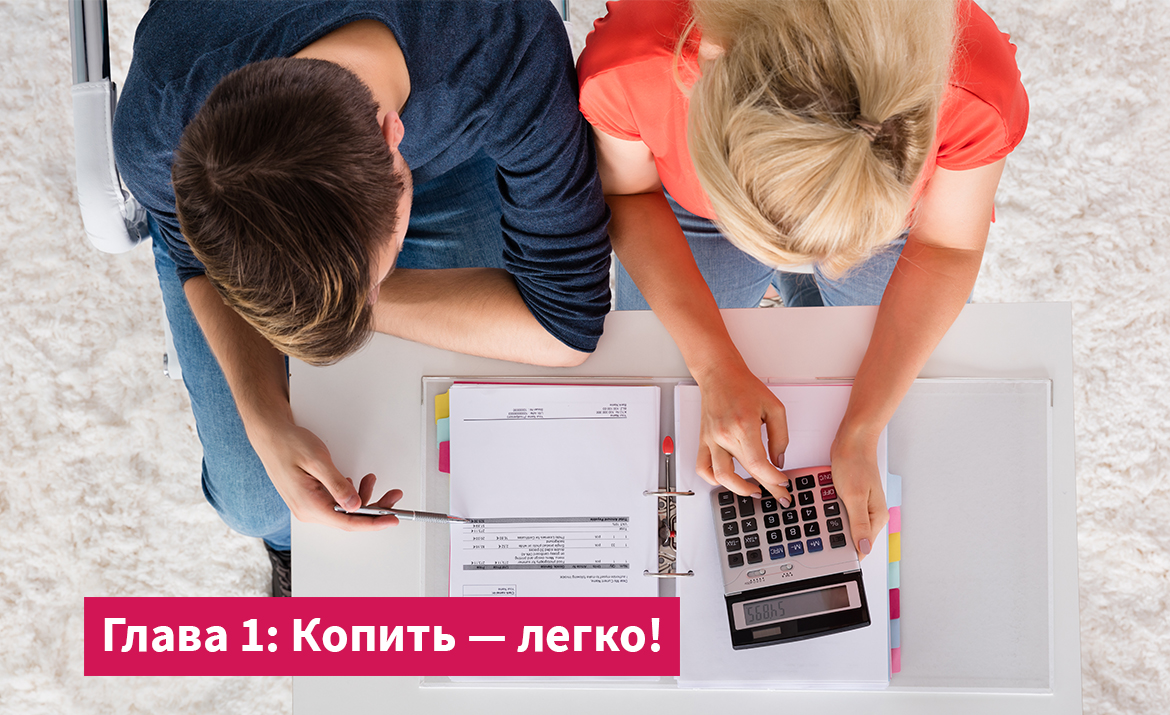
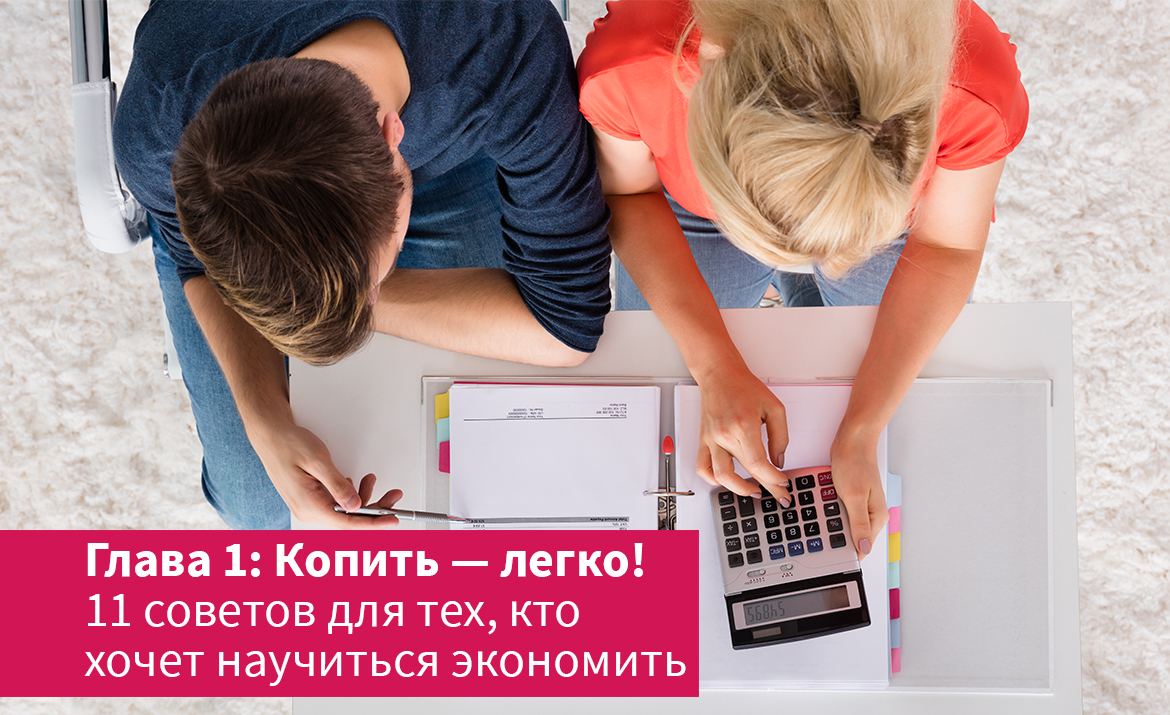
Changes

Changed region(s): [[0.0, 0.7385, 0.6154, 0.9846]]

diff --git a/index_internet.html b/index_internet.html
@@ -11,7 +11,7 @@
   <link rel="stylesheet" href="https://maxcdn.bootstrapcdn.com/bootstrap/3.3.7/css/bootstrap.min.css" integrity="sha384-BVYiiSIFeK1dGmJRAkycuHAHRg32OmUcww7on3RYdg4Va+PmSTsz/K68vbdEjh4u" crossorigin="anonymous">
   <script src="https://maxcdn.bootstrapcdn.com/bootstrap/3.3.7/js/bootstrap.min.js" integrity="sha384-Tc5IQib027qvyjSMfHjOMaLkfuWVxZxUPnCJA7l2mCWNIpG9mGCD8wGNIcPD7Txa" crossorigin="anonymous"></script>
   <script src="https://ajax.googleapis.com/ajax/libs/jquery/1.12.4/jquery.min.js"></script>
-  <style>header1,img{max-width:100%}img{height:auto}img.icons{margin:35px 0}.no-gutters{padding-left:0!important;padding-right:0!important}a{text-decoration: none}a.social{text-decoration: none;color: white}h2{font-family:'Source Sans Pro';color:#060606;font-size:50px;font-weight:700;line-height:50px}h3,p{font-family:'Source Sans Pro';font-weight:400}h3,p,p.right-spoiler,p.spoiler{color:#060606;line-height:25px;text-align:left}h3{font-size:30px;text-indent:80px}p{font-size:20px;text-indent:15.01px}p.right-spoiler,p.spoiler{font-size:18px; padding: 15px}p.right-spoiler{background:url(http://i.imgur.com/fHPtLL0.png) no-repeat #edfafc;background-position-x:10px;background-position-y:10px;margin-top:50px;padding-top:60px!important;padding:30px;font-size:16px;line-height:1.4}.spoiler-title{cursor:pointer;text-decoration:underline}p.spoiler-title{font-weight:700}.spoiler-body{display:none;background:#edfafc}.right-fact{padding-top:50px}header1{margin:0 auto}.first-chapter{margin-top:20px}.first-num{background:url(http://i.imgur.com/EjaL2N4.png) no-repeat;background-size:auto}.second-num{background:url(http://i.imgur.com/Y56rT36.png) no-repeat;background-size:auto}.third-num{background:url(http://i.imgur.com/G4n81Zx.png) no-repeat;background-size:auto}.fourth-num{background:url(http://i.imgur.com/t3Nybv9.png) no-repeat;background-size:auto}.fifth-num{background:url(http://i.imgur.com/B4XkJmA.png) no-repeat;background-size:auto}.sixth-num{background:url(http://i.imgur.com/rRyV60x.png) no-repeat;background-size:auto}.seventh-num{background:url(http://i.imgur.com/gguqD7J.png) no-repeat;background-size:auto}.eights-num{background:url(http://i.imgur.com/dDNbPuf.png) no-repeat;background-size:auto}.ninth-num{background:url(http://i.imgur.com/dBlJR8D.png) no-repeat;background-size:auto}.tenth-num{background:url(http://i.imgur.com/3LJQviE.png) no-repeat;background-size:auto}.eleventh-num{background:url(http://i.imgur.com/GaeX0VA.png) no-repeat;background-size:auto}.first-blue{background:url(http://i.imgur.com/bysIYS2.png) no-repeat;background-size:auto}.second-blue{background:url(http://i.imgur.com/q6TsTEu.png) no-repeat;background-size:auto}.third-blue{background:url(http://i.imgur.com/LyfVyoZ.png) no-repeat;background-size:auto}.fourth-blue{background:url(http://i.imgur.com/OlV8fvg.png) no-repeat;background-size:auto}.fifth-blue{background:url(http://i.imgur.com/LGByifR.png) no-repeat;background-size:auto}.sixth-blue{background:url(http://i.imgur.com/VUFcD17.png) no-repeat;background-size:auto}.second-chapter{margin-top:50px}#citata1{margin-bottom:-60px;margin-top:25px}#citata2,#citata3{margin:25px 0}img.arrow{width:10%;padding-top:5px;padding-left:10px}.text-padding{padding-top:65px}.text-padding2{padding-top:25px}p.list{text-indent:15px}.fa-check{color:#d21455}footer{height: 50px; width: 100%; background-color: #d11255;}@media screen and (max-width:576px){h3,p{text-indent:0}h3{font-size: 22px;}p.footer{padding-left: 0 !important}p.social{padding-left: 68%}h2{font-size: 32px;line-height: 30px;}p,p.spoiler{font-size:1.2em}.right-fact{padding-top:20px}.right-fact p.right-spoiler{margin-top:0!important}}</style>
+  <style>header1,img{max-width:100%}img{height:auto}img.icons{margin:35px 0}.no-gutters{padding-left:0!important;padding-right:0!important}a{text-decoration: none}a.social{text-decoration: none;color: white}h2{font-family:'Source Sans Pro';color:#060606;font-size:50px;font-weight:700;line-height:50px}h3,p{font-family:'Source Sans Pro';font-weight:400}h3,p,p.right-spoiler,p.spoiler{color:#060606;line-height:25px;text-align:left}h3{font-size:30px;text-indent:80px}p{font-size:20px;text-indent:15.01px}p.right-spoiler,p.spoiler{font-size:18px; padding: 15px}p.right-spoiler{background:url(http://i.imgur.com/fHPtLL0.png) no-repeat #edfafc;background-position-x:10px;background-position-y:10px;margin-top:50px;padding-top:60px!important;padding:30px;font-size:16px;line-height:1.4}.spoiler-title{cursor:pointer;text-decoration:underline}p.spoiler-title{font-weight:700}.spoiler-body{display:none;background:#edfafc}.right-fact{padding-top:50px}header1{margin:0 auto}.first-chapter{margin-top:20px}.first-num{background:url(http://i.imgur.com/EjaL2N4.png) no-repeat;background-size:auto}.second-num{background:url(http://i.imgur.com/Y56rT36.png) no-repeat;background-size:auto}.third-num{background:url(http://i.imgur.com/G4n81Zx.png) no-repeat;background-size:auto}.fourth-num{background:url(http://i.imgur.com/t3Nybv9.png) no-repeat;background-size:auto}.fifth-num{background:url(http://i.imgur.com/B4XkJmA.png) no-repeat;background-size:auto}.sixth-num{background:url(http://i.imgur.com/rRyV60x.png) no-repeat;background-size:auto}.seventh-num{background:url(http://i.imgur.com/gguqD7J.png) no-repeat;background-size:auto}.eights-num{background:url(http://i.imgur.com/dDNbPuf.png) no-repeat;background-size:auto}.ninth-num{background:url(http://i.imgur.com/dBlJR8D.png) no-repeat;background-size:auto}.tenth-num{background:url(http://i.imgur.com/3LJQviE.png) no-repeat;background-size:auto}.eleventh-num{background:url(http://i.imgur.com/GaeX0VA.png) no-repeat;background-size:auto}.first-blue{background:url(http://i.imgur.com/bysIYS2.png) no-repeat;background-size:auto}.second-blue{background:url(http://i.imgur.com/q6TsTEu.png) no-repeat;background-size:auto}.third-blue{background:url(http://i.imgur.com/LyfVyoZ.png) no-repeat;background-size:auto}.fourth-blue{background:url(http://i.imgur.com/OlV8fvg.png) no-repeat;background-size:auto}.fifth-blue{background:url(http://i.imgur.com/LGByifR.png) no-repeat;background-size:auto}.sixth-blue{background:url(http://i.imgur.com/VUFcD17.png) no-repeat;background-size:auto}.first-green{background: url(http://i.imgur.com/amae760.png) no-repeat; background-size: auto;}.second-green{background: url(http://i.imgur.com/qjD3D1p.png) no-repeat; background-size: auto;}.third-green{background: url(http://i.imgur.com/hNWOV3Z.png) no-repeat; background-size: auto;}.fourth-green{background: url(http://i.imgur.com/whjhyQX.png) no-repeat; background-size: auto;}.fifth-green{background: url(http://i.imgur.com/NJhR7Yj.png) no-repeat; background-size: auto;}.second-chapter{margin-top:50px}#citata1{margin-bottom:-60px;margin-top:25px}#citata2,#citata3{margin:25px 0}img.arrow{width:10%;padding-top:5px;padding-left:10px}.text-padding{padding-top:65px; padding-left: 80px; text-indent: 0; line-height: 30px;}.text-padding2{padding-top:25px}p.list{text-indent:15px}.fa-check{color:#d21455}footer{height: 50px; width: 100%; background-color: #d11255;}@media screen and (max-width:576px){h3,p{text-indent:0}h3{font-size: 22px;}p.footer{padding-left: 0 !important}p.social{padding-left: 68%}h2{font-size: 32px;line-height: 30px;}p,p.spoiler{font-size:1.2em}.right-fact{padding-top:20px}.right-fact p.right-spoiler{margin-top:0!important}}</style>
 </head>
 <body>
   <div class="header 1 hidden-xs">
@@ -23,12 +23,7 @@
   <div class="container">
     <div class="first-chapter">
       <div class="row">
-        <div class="col-md-12 no-gutters"><img src=http://i.imgur.com/MTD1ZFk.jpg alt=""></div>
-      </div>
-      <div class="row">
-        <div class="col-md-10 col-md-offset-1">
-          <h2>11 советов для тех, кто хочет научиться экономить</h2>
-        </div>
+        <div class="col-md-12 no-gutters"><img src=http://i.imgur.com/hkp0kw1.jpg alt=""></div>
       </div>
       <div class="row">
         <div class="col-md-8 col-md-offset-2">
@@ -229,121 +224,194 @@
         </div>
       </div>
     </div>
-    </div>
-    <div class="second-chapter">
-      <div class="container">
-        <div class="row">
-          <div class="col-md-12 no-gutters">
-            <img src=http://i.imgur.com/Rrbo5mn.jpg alt="">
-          </div>
-        </div>
-        <div class="row">
-          <div class="col-md-10 col-md-offset-1">
-            <h2>6 советов как правильно инвестировать</h2>
-          </div>
-        </div>
-        <div class="row">
-          <div class="col-md-8 col-md-offset-2">
-            <p>Отсутствие знаний правил финансовой грамотности, либо их игнорирование приводит к плачевным результатам. Об этом говорят цифры: потенциальных банкротов - граждан в стране на начало 2017 г насчитывается около 700 тысяч рублей. В отношении 30 тысяч человек возбуждены дела о банкротстве. Причина не столько в экономической ситуации, как в финансовых ошибках людей.</p>
-          </div>
-          <div class="col-md-10 col-md-offset-2 hidden-xs">
-            <div id="citata2"><img src=http://i.imgur.com/bMk7g3V.png alt=""></div>
-          </div>
-          <div class="col-md-7 col-md-offset-2">
-            <p>Что необходимо сделать, чтобы сохранить и преумножить накопленные сбережения? Разбираем основные способы инвестирования накоплений. </p>
-          </div>
-        </div>
-        <div class="row">
-          <div class="col-md-8 col-md-offset-2">
-            <div class="text-block first-blue">
-              <h3 class="text-padding">Инвестиции в банк: дебетовая карта или вклад.</h3>
-              <p>Возможностей и банков масса, все дают гарантированный доход. Есть карты с кэшбэком по отдельным категориям, есть целый портфель вкладов с возможностью снятия денег или без, на определенный промежуток времени или до востребования. Внимательно читайте условия договора, включая информацию под&nbsp*, выбирайте такие условия, которые будут соответствовать конечной цели ваших накоплений -  будь то ремонт или отпуск. Можно обратиться в банк, где консультант подберет <a href="https://neyvabank.ru/chastnym-litsam/vklady?utm_source=rbc&utm_medium=news&utm_campaign=in_rbc_discounter&crm_phrase=yapokupayu">оптимальный вариант</a>.</p>
-            </div>
-            <img src=http://i.imgur.com/lHhsTbs.jpg alt="" style="margin-top: 30px;">
-          </div>
-        </div>
-        <div class="row">
-          <div class="col-md-8 col-md-offset-2">
-            <div class="text-block second-blue">
-              <h3 class="text-padding">Инвестиции в Фондовый рынок.</h3>
-              <p>По статистике в США доля частных инвесторов на фондовых рынках составляет 60%. В России же эта цифра составляет менее 1%, а число активных инвесторов и того меньше, примерно 0,1%.</p>
-              <p>Почему в России фондовый рынок так не популярен? Во-первых, это рискованнее, чем просто дебетовый вклад в банке, вы можете вложить деньги не в тот портфель и полностью или частично их потерять.</p>
-              <p>Поэтому, чтобы разбираться в фондовом рынке, прочитать десяток книг, а лучше еще получить хорошее образование. Или найти хорошего тренера. Только авторов и преподавателей нужно проверять: смотреть, сколько они сами заработали и чего достигли.</p>
-              <p>Эксперты фондового рынка утверждают, что зарабатывать можно в среднем 15-17% годовых, используя разные портфели инвестиций. Кроме того, здесь относительно низкий порог входа— для начала вам будет достаточно 10-20 тысяч рублей.</p>
-            </div>
-          </div>
-        </div>
-        <div class="row">
-          <div class="col-md-8 col-md-offset-2">
-            <div class="text-block third-blue">
-              <h3 class="text-padding">Инвестиции в ликвидные товары.</h3>
-              <p>Всегда что- то можно выгодно купить и еще более выгодно продать.</p>
-              <p>Разберем пример с автомобилем. Покупая новый автомобиль в салоне до 1 000 000 рублей, можно сразу же потерять 30% стоимости автомобиля. Как? Вы выехали из салона, и он уже стоит не 1 000 000 рублей, а 700 000. Просто потому что он уже не новый. Соответственно, продать его вы сможете тысяч за 700 в следующем году, и потерять 300 000 рублей.</p>
-              <p>Выгоднее взять подержанный автомобиль этой же марки, например, годовалый, за 600-700 000 рублей, и через год продать его за те же деньги. Так вы не потеряете в деньгах. </p>
-              <p>Другое дело – квартира. Банки нам обещают множество вариантов ипотеки, основной посыл которых — живи сейчас, плати постепенно. Однако цена на землю и на обустроенные квартиры имеет свойство расти со временем. То есть квартиру за 2-3 миллиона рублей можно через несколько лет продать выгоднее на 15-20%. </p>
-              <img src=http://i.imgur.com/9AzfXm3.jpg alt="" style="margin-top: 30px;">
-            </div>
-          </div>
-        </div>
-        <div class="row">
-          <div class="col-md-8 col-md-offset-2">
-            <div class="text-block fourth-blue">
-              <h3 class="text-padding">Инвестиции в стартап.</h3>
-              <p>Открыть собственный или вложиться в текущий проект. Apple, Uber или Instagram тоже когда-то были стартапами, просто в них поверили.</p>
-              <p>Вложив накопленные деньги в открывающееся кафе или, например, воспользовавшись специальными сайтами, где стартапы ищут денег на запуск, можно остаться в большом выигрыше. Безусловно, это рискованно, так что вариант подойдет не для всех.</p>
-            </div>
-          </div>
-        </div>
-        <div class="row">
-          <div class="col-md-8 col-md-offset-2">
-            <div class="text-block fifth-blue">
-              <h3 class="text-padding">Инвестиции в себя.</h3>
-              <p>Лучшие инвестиции — в себя: знания, профессиональное развитие, языки, хобби и т.д. Это все в перспективе поможет вам зарабатывать гораздо больше. Как?</p>
-              <p>Правильное образование поможет вам не растеряться в любой ситуации, будь то переезд в другой город, смена работы или рождение ребенка.</p>
-              <p>Обучившись тем же навыкам финансовой грамотности, можно начать грамотно распоряжаться имеющимися деньгами. Или, выучившись, например, на дизайнера или копирайтера, у вас всегда будет план Б.</p>
-            </div>
-          </div>
-        </div>
-        <div class="row">
-          <div class="col-md-8 col-md-offset-2 hidden-xs">
-            <div class="text-block sixth-blue">
-             <h3 class="text-padding" style="margin-bottom: 0;">И напоследок - изредка все же можно купить</h3> <br> <h3 style="margin-top: -10px;">лотерейный билет, а вдруг…?</h3>
-             <p>Без хорошей доли удачи даже самое выгодное, на первый взгляд, вложение, может не принести ожидаемой пользы.
-             </p>
-             <p>Мы предложили самые простые механизмы финансовой грамотности, а что именно делать с вашими деньгами, использовать ли эти советы - решать Вам!</p>
-           </div>
-         </div>
-       </div>
-       <div class="row">
-         <div class="col-md-8 col-md-offset-2 visible-xs-block">
-           <div class="text-block sixth-blue">
-             <h3 class="text-padding" style="margin-bottom: 0;">И напоследок - изредка все же можно купить лотерейный билет, а вдруг…?</h3>
-             <p>Без хорошей доли удачи даже самое выгодное, на первый взгляд, вложение, может не принести ожидаемой пользы.
-             </p>
-             <p>Мы предложили самые простые механизмы финансовой грамотности, а что именно делать с вашими деньгами, использовать ли эти советы - решать Вам!</p>
-           </div>
-         </div>
-       </div>
-       <div class="row">
-         <div class="col-md-10 col-md-offset-2 hidden-xs">
-          <div id="citata3"><img src=http://i.imgur.com/LX8YiJ5.png alt=""></div>
-        </div>
-      </div>
-      </div>
-      </div>
-      </div>
-      <div class="container-fluid">
+  </div>
+  <div class="second-chapter">
+    <div class="container">
       <div class="row">
-      <div class="col-md-12 no-gutters">
-        <footer>
-        <p class="footer" style="color: white; padding-top: 15px; padding-left: 20%; float: left;"><a href="http://www.yapokupayu.ru/NewYou_EKB/" style="text-decoration: none; color: white">Назад к «Карте Желаний»</a></p>
-        <p class="social" style="padding-top: 15px; color: white; padding-left: 70%"><a class="social" href="https://www.instagram.com/yapokupayu.ru/"><i class="fa fa-instagram" aria-hidden="true"></i></a> <a class="social" href="https://www.facebook.com/yapokupayuru"><i class="fa fa-facebook-square" aria-hidden="true"></i></a> <a class="social" href="https://vk.com/yapokru"><i class="fa fa-vk" aria-hidden="true"></i></a> <a class="social" href="https://ok.ru/yapokru"><i class="fa fa-odnoklassniki-square" aria-hidden="true"></i></a></p>
-        </footer>
+        <div class="col-md-12 no-gutters">
+          <img src=http://i.imgur.com/afoNpeZ.jpg alt="">
+        </div>
       </div>
+      <div class="row">
+        <div class="col-md-8 col-md-offset-2">
+          <p>Отсутствие знаний правил финансовой грамотности, либо их игнорирование приводит к плачевным результатам. Об этом говорят цифры: потенциальных банкротов - граждан в стране на начало 2017 г насчитывается около 700 тысяч рублей. В отношении 30 тысяч человек возбуждены дела о банкротстве. Причина не столько в экономической ситуации, как в финансовых ошибках людей.</p>
+        </div>
+        <div class="col-md-10 col-md-offset-2 hidden-xs">
+          <div id="citata2"><img src=http://i.imgur.com/bMk7g3V.png alt=""></div>
+        </div>
+        <div class="col-md-7 col-md-offset-2">
+          <p>Что необходимо сделать, чтобы сохранить и преумножить накопленные сбережения? Разбираем основные способы инвестирования накоплений. </p>
+        </div>
       </div>
-    </div>
+      <div class="row">
+        <div class="col-md-8 col-md-offset-2">
+          <div class="text-block first-blue">
+            <h3 class="text-padding">Инвестиции в банк: дебетовая карта или вклад.</h3>
+            <p>Возможностей и банков масса, все дают гарантированный доход. Есть карты с кэшбэком по отдельным категориям, есть целый портфель вкладов с возможностью снятия денег или без, на определенный промежуток времени или до востребования. Внимательно читайте условия договора, включая информацию под&nbsp*, выбирайте такие условия, которые будут соответствовать конечной цели ваших накоплений -  будь то ремонт или отпуск. Можно обратиться в банк, где консультант подберет <a href="https://neyvabank.ru/chastnym-litsam/vklady?utm_source=rbc&utm_medium=news&utm_campaign=in_rbc_discounter&crm_phrase=yapokupayu">оптимальный вариант</a>.</p>
+          </div>
+          <img src=http://i.imgur.com/lHhsTbs.jpg alt="" style="margin-top: 30px;">
+        </div>
+      </div>
+      <div class="row">
+        <div class="col-md-8 col-md-offset-2">
+          <div class="text-block second-blue">
+            <h3 class="text-padding">Инвестиции в Фондовый рынок.</h3>
+            <p>По статистике в США доля частных инвесторов на фондовых рынках составляет 60%. В России же эта цифра составляет менее 1%, а число активных инвесторов и того меньше, примерно 0,1%.</p>
+            <p>Почему в России фондовый рынок так не популярен? Во-первых, это рискованнее, чем просто дебетовый вклад в банке, вы можете вложить деньги не в тот портфель и полностью или частично их потерять.</p>
+            <p>Поэтому, чтобы разбираться в фондовом рынке, прочитать десяток книг, а лучше еще получить хорошее образование. Или найти хорошего тренера. Только авторов и преподавателей нужно проверять: смотреть, сколько они сами заработали и чего достигли.</p>
+            <p>Эксперты фондового рынка утверждают, что зарабатывать можно в среднем 15-17% годовых, используя разные портфели инвестиций. Кроме того, здесь относительно низкий порог входа— для начала вам будет достаточно 10-20 тысяч рублей.</p>
+          </div>
+        </div>
+      </div>
+      <div class="row">
+        <div class="col-md-8 col-md-offset-2">
+          <div class="text-block third-blue">
+            <h3 class="text-padding">Инвестиции в ликвидные товары.</h3>
+            <p>Всегда что- то можно выгодно купить и еще более выгодно продать.</p>
+            <p>Разберем пример с автомобилем. Покупая новый автомобиль в салоне до 1 000 000 рублей, можно сразу же потерять 30% стоимости автомобиля. Как? Вы выехали из салона, и он уже стоит не 1 000 000 рублей, а 700 000. Просто потому что он уже не новый. Соответственно, продать его вы сможете тысяч за 700 в следующем году, и потерять 300 000 рублей.</p>
+            <p>Выгоднее взять подержанный автомобиль этой же марки, например, годовалый, за 600-700 000 рублей, и через год продать его за те же деньги. Так вы не потеряете в деньгах. </p>
+            <p>Другое дело – квартира. Банки нам обещают множество вариантов ипотеки, основной посыл которых — живи сейчас, плати постепенно. Однако цена на землю и на обустроенные квартиры имеет свойство расти со временем. То есть квартиру за 2-3 миллиона рублей можно через несколько лет продать выгоднее на 15-20%. </p>
+            <img src=http://i.imgur.com/9AzfXm3.jpg alt="" style="margin-top: 30px;">
+          </div>
+        </div>
+      </div>
+      <div class="row">
+        <div class="col-md-8 col-md-offset-2">
+          <div class="text-block fourth-blue">
+            <h3 class="text-padding">Инвестиции в стартап.</h3>
+            <p>Открыть собственный или вложиться в текущий проект. Apple, Uber или Instagram тоже когда-то были стартапами, просто в них поверили.</p>
+            <p>Вложив накопленные деньги в открывающееся кафе или, например, воспользовавшись специальными сайтами, где стартапы ищут денег на запуск, можно остаться в большом выигрыше. Безусловно, это рискованно, так что вариант подойдет не для всех.</p>
+          </div>
+        </div>
+      </div>
+      <div class="row">
+        <div class="col-md-8 col-md-offset-2">
+          <div class="text-block fifth-blue">
+            <h3 class="text-padding">Инвестиции в себя.</h3>
+            <p>Лучшие инвестиции — в себя: знания, профессиональное развитие, языки, хобби и т.д. Это все в перспективе поможет вам зарабатывать гораздо больше. Как?</p>
+            <p>Правильное образование поможет вам не растеряться в любой ситуации, будь то переезд в другой город, смена работы или рождение ребенка.</p>
+            <p>Обучившись тем же навыкам финансовой грамотности, можно начать грамотно распоряжаться имеющимися деньгами. Или, выучившись, например, на дизайнера или копирайтера, у вас всегда будет план Б.</p>
+          </div>
+        </div>
+      </div>
+      <div class="row">
+        <div class="col-md-8 col-md-offset-2 hidden-xs">
+          <div class="text-block sixth-blue">
+           <h3 class="text-padding" style="margin-bottom: 0;">И напоследок - изредка все же можно купить</h3> <br> <h3 style="margin-top: -10px;">лотерейный билет, а вдруг…?</h3>
+           <p>Без хорошей доли удачи даже самое выгодное, на первый взгляд, вложение, может не принести ожидаемой пользы.
+           </p>
+           <p>Мы предложили самые простые механизмы финансовой грамотности, а что именно делать с вашими деньгами, использовать ли эти советы - решать Вам!</p>
+         </div>
+       </div>
+     </div>
+     <div class="row">
+       <div class="col-md-8 col-md-offset-2 visible-xs-block">
+         <div class="text-block sixth-blue">
+           <h3 class="text-padding" style="margin-bottom: 0;">И напоследок - изредка все же можно купить лотерейный билет, а вдруг…?</h3>
+           <p>Без хорошей доли удачи даже самое выгодное, на первый взгляд, вложение, может не принести ожидаемой пользы.
+           </p>
+           <p>Мы предложили самые простые механизмы финансовой грамотности, а что именно делать с вашими деньгами, использовать ли эти советы - решать Вам!</p>
+         </div>
+       </div>
+     </div>
+     <div class="row">
+       <div class="col-md-10 col-md-offset-2 hidden-xs">
+        <div id="citata3"><img src=http://i.imgur.com/LX8YiJ5.png alt=""></div>
+      </div>
     </div>
   </div>
+</div>
+<div class="third-chapter">
+ <div class="container">
+  <div class="row">
+    <div class="col-md-12 no-gutters">
+      <img src=http://i.imgur.com/qVKAYGy.jpg alt="">
+    </div>
+  </div>
+  <div class="row">
+    <div class="col-md-8 col-md-offset-2">
+      <p>Копить деньги – это привычка, которую нужно в себе воспитывать. Но все время откладывать — невозможно. Есть обязательные траты, есть маленькие радости: постоянно возникает необходимость правильно распоряжаться своими средствами.</p>
+      <p>Как извлечь из расходов – доходы, а привычную банковскую карту превратить в выгодный финансовый инструмент – с этими вопросами мы обратились к финансовым консультантам банка Нейва. </p>
+    </div>
+  </div>
+  <div class="row">
+    <div class="col-md-8 col-md-offset-2">
+      <div class="text-block first-green">
+        <h3 class="text-padding">Как банки могут помочь экономить? Особенно, если нет привычки откладывать деньги "в кубышку"?</h3>
+        <p>Набор инструментов для экономии стандартный: кэшбэк и выплата процентов на остаток.</p>
+        <p>Категории кэшбэка могут быть разными и их лучше <a href="https://neyvabank.ru/chastnym-litsam/bankovskie-karty">уточнять на сайте</a> перед оформлением. По картам могут быть фиксированные проценты кэшбэка на все категории покупок и услуг, либо эти категории могут меняться от сезона к сезону (например, кэшбэк за покупку авиа-,жд-билетов к летнему отпуску).</p>
+        <p>У некоторых карт бывают особые категории: например, покупки в супермаркетах или в кафе.</p>
+        <p>Кроме того, можно стать участником банковской бонусной программы, в которой за покупки по карте начисляются бонусы, с помощью которых можно полностью оплачивать другие товары и услуги.</p>
+        <p>Чаще заглядывайте на сайт своего банка, там публикуются спецпредложения. Например, поход на выставку современного искусства со скидкой для держателей карт определенной категории.</p>
+      </div>
+      <img src=http://i.imgur.com/oMlAAAw.jpg alt="">
+    </div>
+  </div>
+  <div class="row">
+    <div class="col-md-8 col-md-offset-2">
+      <div class="text-block second-green">
+        <h3 class="text-padding">Сколько карт должно быть у человека, если он хочет получать максимальную выгоду с кэшбэком?</h3>
+        <p>Как правило, набор банковских карт в наших кошельках ограничивается двумя — зарплатной (дебетовой) и кредитной. Потребность в еще одной дебетовой карте может возникнуть, если тарифы за обслуживание зарплатной карты слишком высоки, либо среди многообразия банковских предложений есть карта с актуальными для держателя категориями кэшбэка.</p>
+        <p>Ограничений на количество карт для использования, как таковых, нет. Разница лишь в перечне категорий, по которым банк выплачивает кэшбэк. Также важно учитывать способ выплаты — баллами либо живыми деньгами. </p>
+        <p>Если вы много путешествуете или работа связана с частыми командировками и поездками, выгодно иметь мультивалютную карту, либо карту, с помощью которой можно накапливать мили или получать кэшбэк в категории «АЗС».</p>
+        <p>Для покупок в интернет-магазинах полезно завести отдельную карту, обезопасив средства на основной карте от краж, а для накоплений на полезные цели — отпуск или изучение английского языка — дебетовую карту с повышенным процентом на остаток по счету.</p>
+        <p>Обращайте внимание: как правило, для начисления процентов на вашем счету должна быть определенная сумма, либо за месяц вы должны сделать с карты определённый объём платежей. В одних банках проценты рассчитываются по ежедневному остатку, в других — сумма процентов зависит от минимального остатка за месяц.</p>
+      </div>
+    </div>
+  </div>
+  <div class="row">
+    <div class="col-md-8 col-md-offset-2">
+      <div class="text-block third-green">
+        <h3 class="text-padding">Нужно ли заводить карту для ребенка, чтобы контролировать "карманные расходы"?</h3>
+        <p>Это удобно. Благодаря детской карте у родителей не возникнет вопросов о том, сколько денег наличными давать  ребенку на карманные расходы.</p>
+        <p>При выборе <a href="https://neyvabank.ru/chastnym-litsam/bankovskie-karty/detskaya-karta?utm_source=rbc&utm_medium=news&utm_campaign=in_rbc_discounter&crm_phrase=yapokupayu">детской карты</a> важно обратить внимание на следующие возможности:</p>
+        <p>•  Есть ли лимиты на ежемесячные/ ежедневные траты;</p>
+        <p>• Приходят ли мгновенные оповещения обо всех операциях по карте;</p>
+        <p> • Как пополняется карта, много ли банкоматов по городу для снятия без комиссии;</p>
+        <p>Кроме того, можно стать участником банковской бонусной программы, в которой за покупки по карте начисляются бонусы, с помощью которых можно полностью оплачивать другие товары и услуги.</p>
+        <p>В качестве приятного бонуса — у детской карты есть кэшбэк за покупки в популярных детских категориях, например, в кафе или в кинотеатрах.</p>
+      </div>
+      <img src=http://i.imgur.com/A4Swsc5.jpg alt="">
+    </div>
+  </div>
+  <div class="row">
+    <div class="col-md-8 col-md-offset-2">
+      <div class="text-block fourth-green">
+        <h3 class="text-padding">Сейчас появилось много карт, которые используют технологию NFC, появляется Apple Pay и аналог для Android. Такие платежи - это вообще безопасно? Мои деньги не пропадут?</h3>
+        <p>Цель каждой технологии – сделать нашу жизнь удобней. Банковские карты с бесконтактной формой оплаты позволяют совершать платежи намного быстрее, чем с помощью обычной карты.</p>
+        <p>Предполагается, что если сумма платежа больше 1 000 рублей, нужно ввести пин-код. И все же, хотя система защиты подобных платежей состоит из несколько этапов, назвать ее абсолютно безопасной нельзя.</p>
+        <p>Чтобы избежать случайной продажи денежных средств, нужно соблюдать простые правила: </p>
+        <p>•  Не показывайте лишний раз карту, всегда прикрывайте терминал ладонью при введении пин-кода.</p>
+        <p>• Установите антивирус на свой смартфон, обращайте внимание на приложения, которые устанавливаете.</p>
+        <p>• Подключите SMS-уведомление обо всех операциях по карте, чтобы при подозрительных операциях сразу обратиться в банк и заблокировать карту.</p>
+        <p>• Для хранения бесконтактной карты используйте экранированный кошелек.</p>
+      </p>
+      <p>Обращайте внимание: как правило, для начисления процентов на вашем счету должна быть определенная сумма, либо за месяц вы должны сделать с карты определённый объём платежей. В одних банках проценты рассчитываются по ежедневному остатку, в других — сумма процентов зависит от минимального остатка за месяц.</p>
+    </div>
+  </div>
+</div>
+  <div class="row">
+    <div class="col-md-8 col-md-offset-2">
+      <div class="text-block fifth-green">
+        <h3 class="text-padding">Сколько нужно вложить денег, чтобы получать прибыль, сопоставимую со средней зарплатой?</h3>
+        <p>Это очень популярный вопрос. Все существующие инструменты различаются по доходности и степени риска. Среди банковских продуктов можно выделить вклады, депозиты, сберегательные сертификаты, ПИФы, индивидуальный инвестиционный счет. К альтернативным способам инвестирования относятся вложения в недвижимость, акции, драгоценные металлы. </p>
+        <p>Простое правило: чем меньше сумма вложений, тем ниже риск ее потери и, соответственно, ниже получаемый процент прибыли.</p>
+        <p>Управлять своими вложениями можно самостоятельно или с помощью специалиста— брокера. Несмотря на многообразие, классическим вариантом с гарантированным возвратом вложенных средств и получением процентов остается банковский вклад. Минимальная сумма для открытия вклада — 1500 рублей, а процент прибыли — до 7 % годовых. С его помощью можно получить прибыль, соразмерную средней зарплате в случае, если вы располагаете 2 млн рублей для размещения (например, при ставке 6,75% годовых, через 3 месяца к сумме вклада прибавится около 34 тыс.рублей) </p>
+    </div>
+  </div>
+</div>
+<div class="container-fluid">
+  <div class="row">
+    <div class="col-md-12 no-gutters">
+      <footer>
+        <p class="footer" style="color: white; padding-top: 15px; padding-left: 20%; float: left;"><a href="http://www.yapokupayu.ru/NewYou_EKB/" style="text-decoration: none; color: white">Назад к «Карте Желаний»</a></p>
+        <p class="social" style="padding-top: 15px; color: white; padding-left: 70%"><a class="social" href="https://www.instagram.com/yapokupayu.ru/"><i class="fa fa-instagram" aria-hidden="true"></i></a> <a class="social" href="https://www.facebook.com/yapokupayuru"><i class="fa fa-facebook-square" aria-hidden="true"></i></a> <a class="social" href="https://vk.com/yapokru"><i class="fa fa-vk" aria-hidden="true"></i></a> <a class="social" href="https://ok.ru/yapokru"><i class="fa fa-odnoklassniki-square" aria-hidden="true"></i></a></p>
+      </footer>
+    </div>
+  </div>
+</div>
+</div>
+</div>
 <!-- Скрипт спойлера -->
 <script type="text/javascript">
   $(document).ready(function(){
